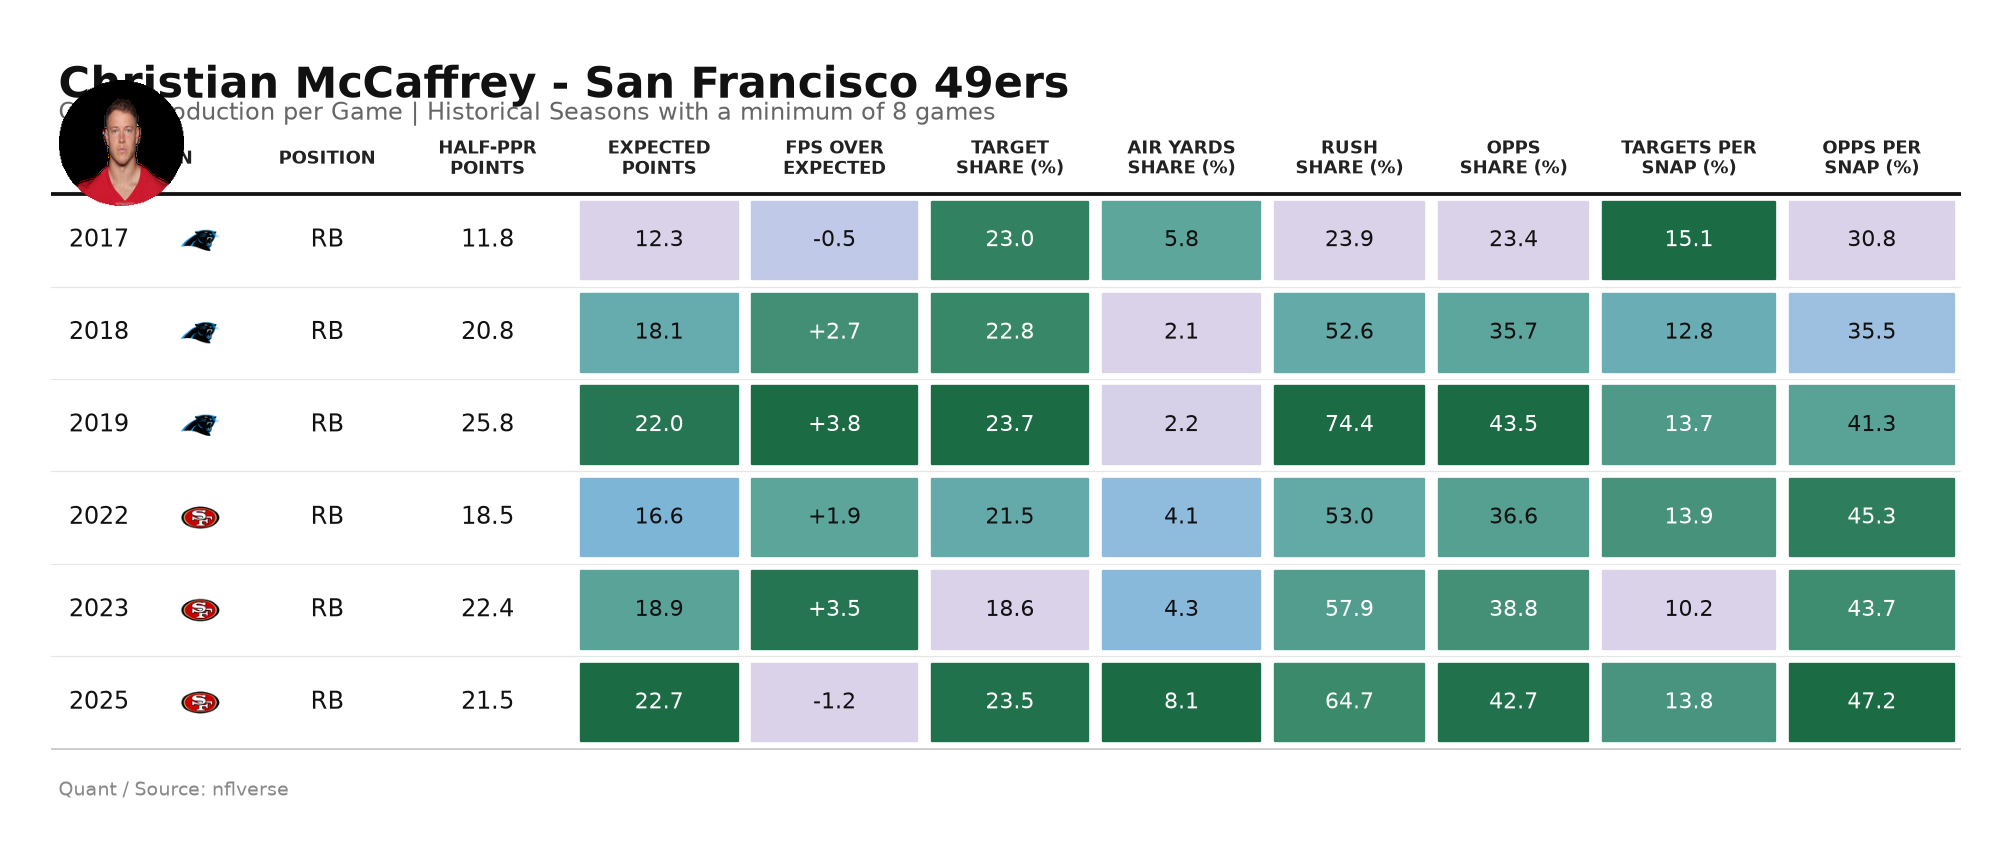
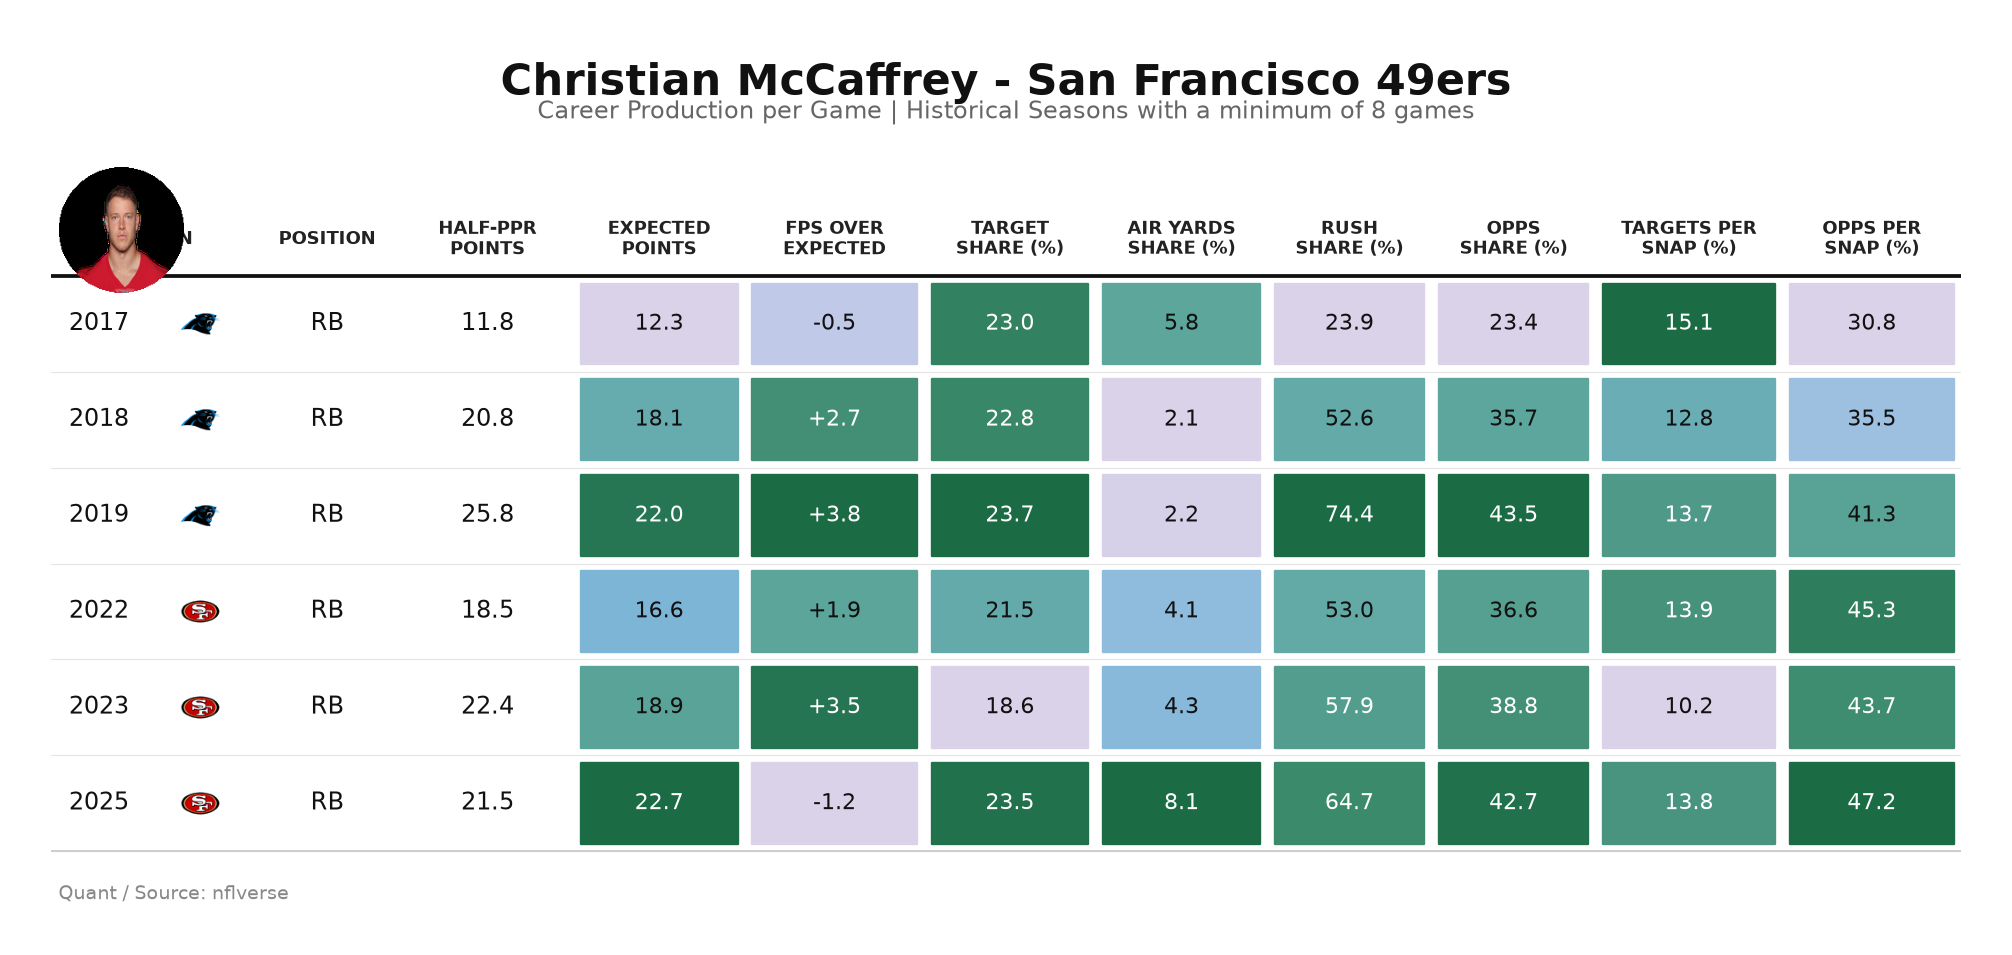
Center career heatmap title above headshot
Lift and center title/subtitle so the headshot no longer overlaps the header.

diff --git a/scripts/rb_career_production.py b/scripts/rb_career_production.py
@@ -490,7 +490,8 @@ def plot_heatmap(
 
     row_h = 0.42
     header_h = 0.95
-    title_pad = 1.55
+    # Extra pad so centered title/subtitle sit above the headshot (no overlap)
+    title_pad = 2.35
     fig_w = 14.5
     fig_h = title_pad + header_h + n * row_h + 0.7
     fig, ax = plt.subplots(figsize=(fig_w, fig_h))
@@ -500,36 +501,38 @@ def plot_heatmap(
     fig.patch.set_facecolor("white")
     ax.set_facecolor("white")
 
-    # Title / subtitle
+    # Title / subtitle — centered at top, clear of headshot
     ax.text(
-        0.05,
-        n + title_pad - 0.15,
+        total_w / 2,
+        n + title_pad - 0.12,
         title,
         fontsize=18,
         fontweight="bold",
         color="#111",
-        ha="left",
+        ha="center",
         va="top",
         clip_on=False,
+        zorder=8,
     )
     ax.text(
-        0.05,
-        n + title_pad - 0.55,
+        total_w / 2,
+        n + title_pad - 0.52,
         subtitle,
         fontsize=10,
         color="#666",
-        ha="left",
+        ha="center",
         va="top",
         clip_on=False,
+        zorder=8,
     )
 
-    # Headshot above SEASON/POSITION
+    # Headshot above SEASON/POSITION only (below title band)
     hs = circular_headshot(player.get("headshot"), player["gsis_id"], size=140)
     if hs is not None:
         im = OffsetImage(np.asarray(hs), zoom=0.38)
         ab = AnnotationBbox(
             im,
-            (xs[0] + widths[0] * 0.35, n + 0.55),
+            (xs[0] + widths[0] * 0.35, n + 0.48),
             frameon=False,
             pad=0,
             zorder=6,
